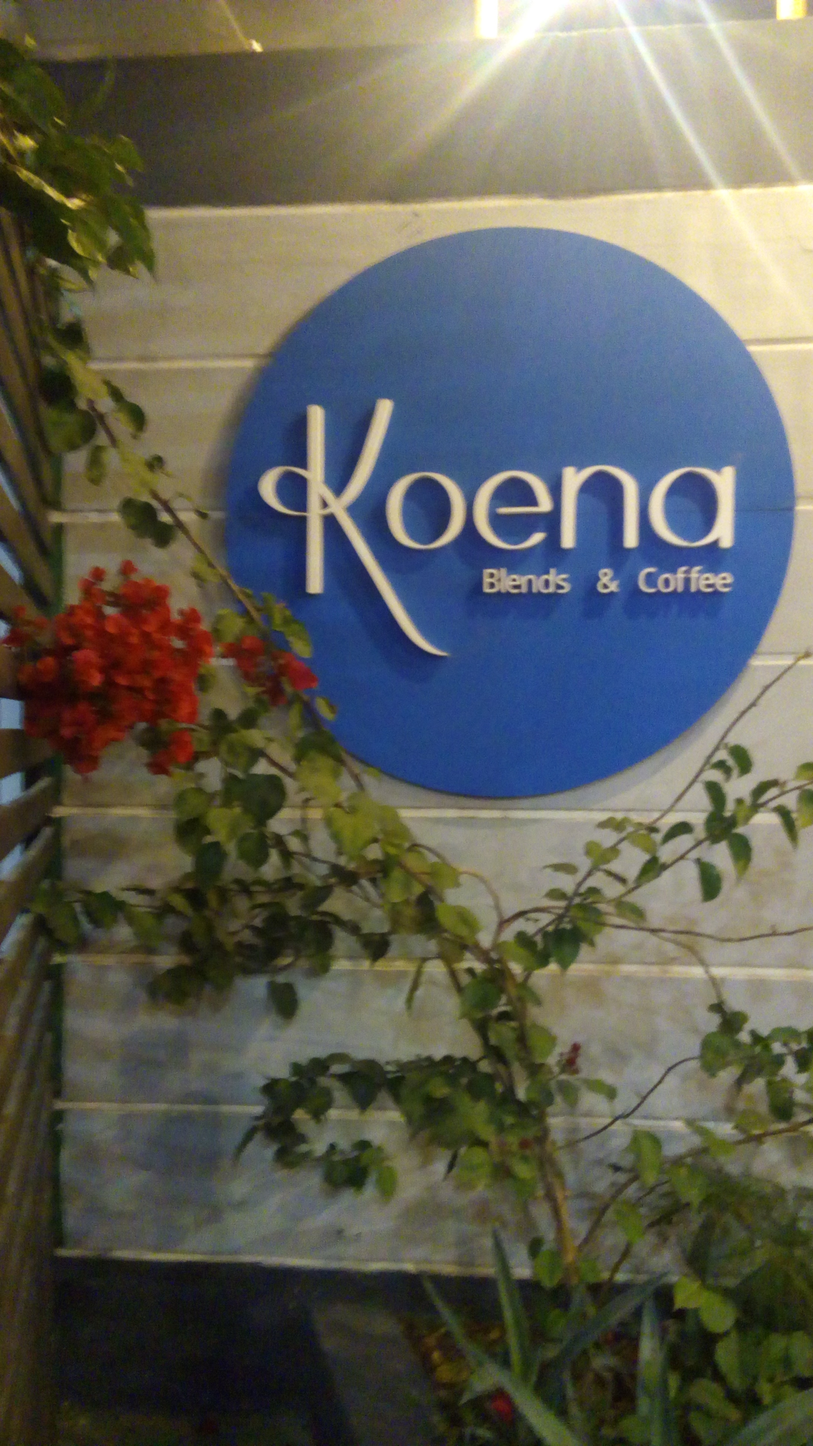
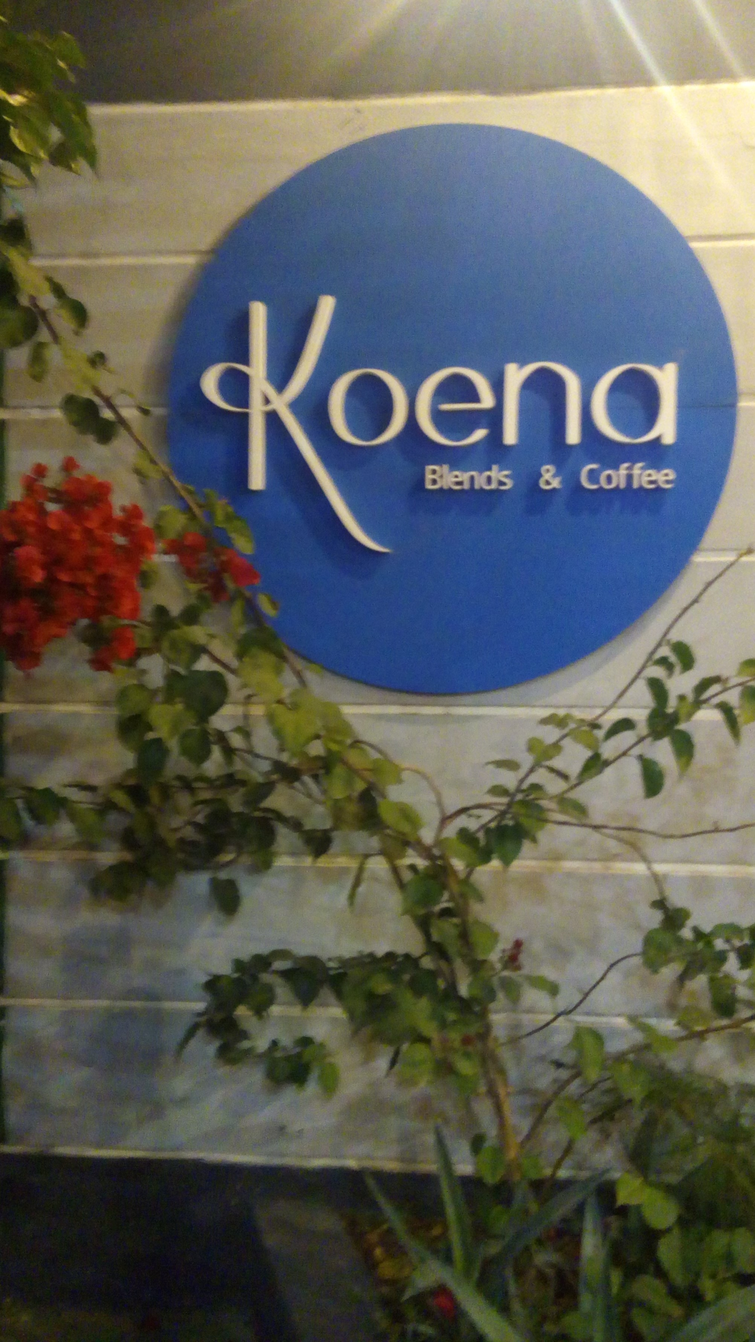
koena proyecto media

diff --git a/css/style.css b/css/style.css
@@ -29,6 +29,7 @@
     background-position: 0px 0px;
     top: 0;
     position: sticky;
+    z-index: 10;
     font-size: 17px; 
     line-height: 25px; 
     grid-area: header;
@@ -601,7 +602,7 @@ form {
     .quees  {
         width: 100%;
         height: calc(100vh - 130px);   
-        background-image: url(../img/inaugura1inaugura.jpg)
+        background-image: url(../img/entrada_koena.jpg)
     }
         
     .vision h2 {
@@ -648,4 +649,27 @@ form {
     .item {    
         align-items: left;
     }
+}
+
+@media screen and (max-width: 443px) {
+    .menu ul {
+        padding-left: 0;
+        flex-direction: column-reverse;
+        flex-wrap: wrap;
+        text-align: center;     
+        justify-content:space-between;
+        align-items: center;
+        box-sizing: content-box;
+    }
+
+    .grilla{
+        grid-template-rows: 230px 40px auto auto;
+    }   
+    .quees  {
+        width: 100%;
+        height: calc(100vh - 230px);   
+        background-image: url(../img/entrada3.jpg);
+        background-size:cover;
+    }
+    
 }
